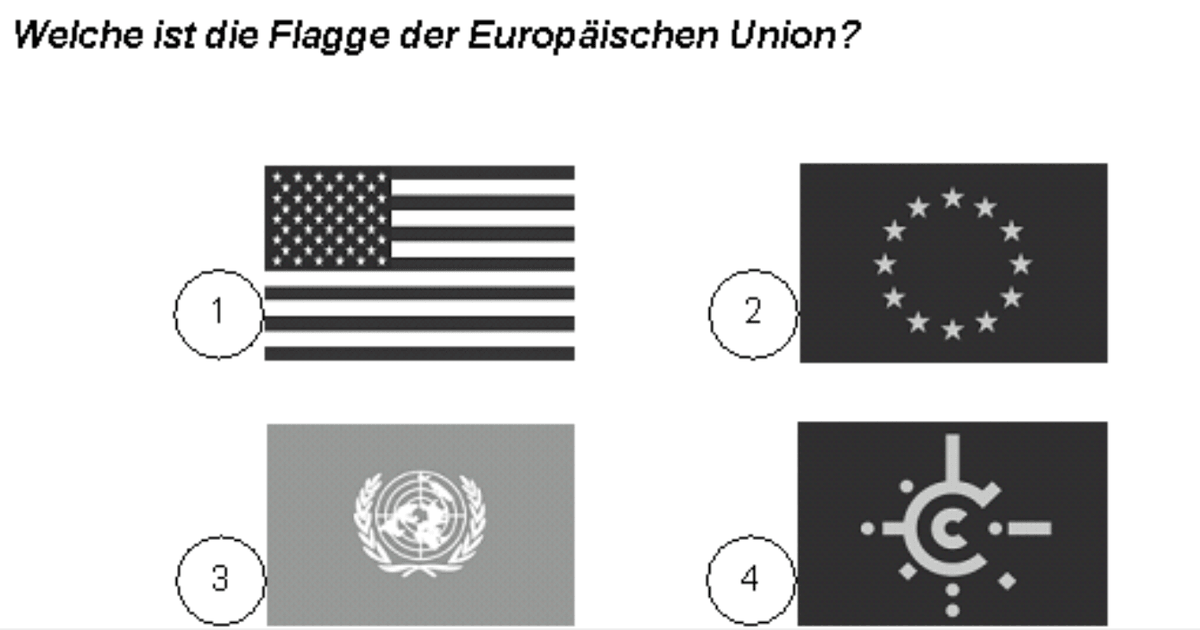
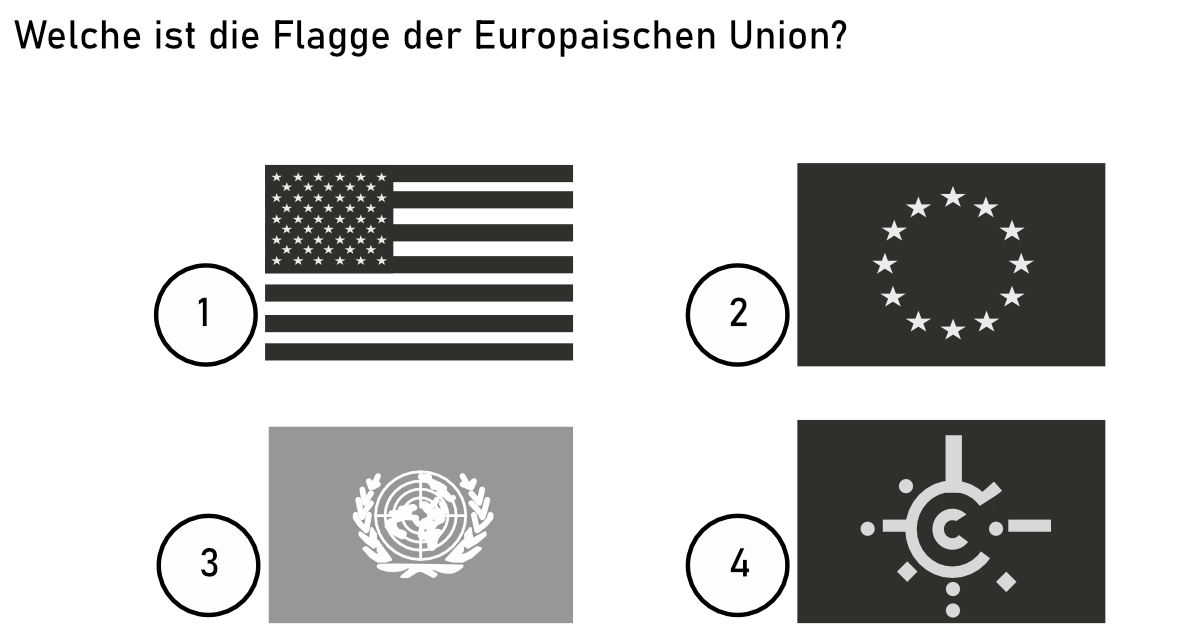
Replace B226 image with corrected redraw

diff --git a/README.md b/README.md
@@ -38,7 +38,7 @@ No web server is required; `data/questions.js`, `data/vocabulary.js` and `data/i
[1 lines of base64/hex data omitted]
   <https://www.bamf.de/SharedDocs/Anlagen/DE/Integration/Einbuergerung/gesamtfragenkatalog-lebenindeutschland.html?nn=284310>
 - **Answers, English translations, explanations and images**: [abdullahbutt/leben-in-deutschland-test](https://github.com/abdullahbutt/leben-in-deutschland-test), version 2026-10-28. **The German question and option wording is taken verbatim from the official BAMF PDF**; the dataset supplies the answer key, English translations, explanations and images. The translations and explanations are licensed under **CC BY-NC 4.0** (attribution, non-commercial use). `data/overrides.json` contains manual corrections for the few items where the dataset described a different paraphrase (e.g. B232, B247, HB02, SN07).
-- **B021, B055, B070, B130, B176, B181, B187, B209 and B216 images**: `data/images/21.png`, `data/images/55.png`, `data/images/70.png`, `data/images/130.png`, `data/images/176.png`, `data/images/181.png`, `data/images/187.png`, `data/images/209.png` and `data/images/216.png` are redrawn replacements added for this project; the remaining images come from the dataset.
+- **B021, B055, B070, B130, B176, B181, B187, B209, B216 and B226 images**: `data/images/21.png`, `data/images/55.png`, `data/images/70.png`, `data/images/130.png`, `data/images/176.png`, `data/images/181.png`, `data/images/187.png`, `data/images/209.png`, `data/images/216.png` and `data/images/226.png` are redrawn replacements added for this project; the remaining images come from the dataset.
 - This is an independent learning app, not an official BAMF product. Use is intended for personal, non-commercial exam preparation.
 
 ## Project layout
